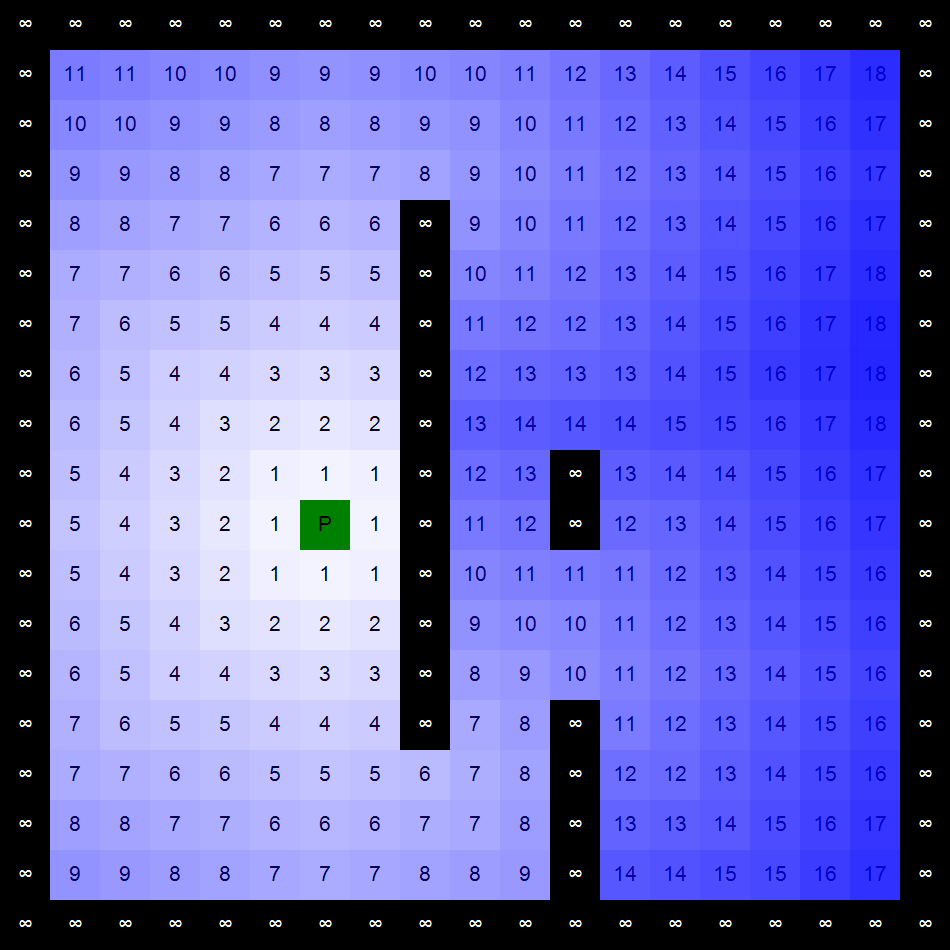
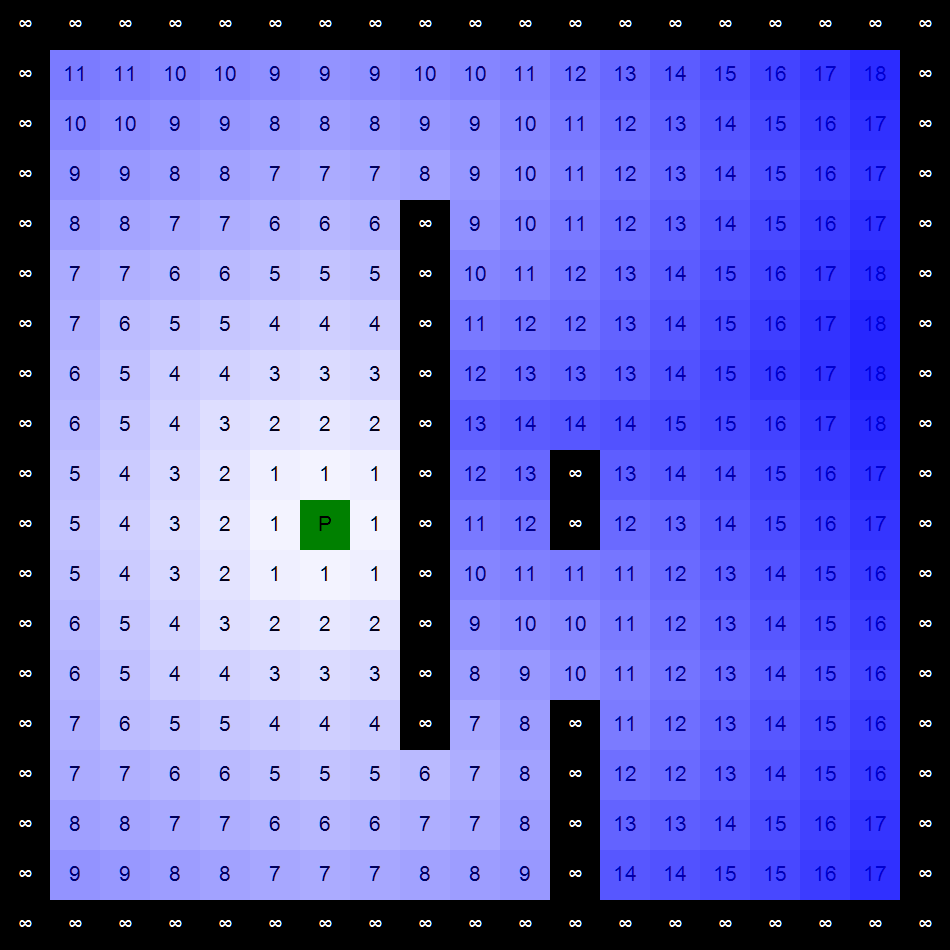
remove minheap

diff --git a/src/NosCore.PathFinder/Brushfire/IMapGridExtension.cs b/src/NosCore.PathFinder/Brushfire/IMapGridExtension.cs
@@ -39,21 +39,21 @@ namespace NosCore.PathFinder.Brushfire
                 return new BrushFire(user, new Dictionary<(short X, short Y), Node?>(), mapGrid.Width, mapGrid.Height);
             }
 
-            var path = new MinHeap();
+            var path = new PriorityQueue<Node, double>();
             var cellGrid = new Dictionary<(short X, short Y), Node?>();
             var grid = new Node?[mapGrid.Width, mapGrid.Height];
             grid[user.X, user.Y] = new Node(user, mapGrid[user.X, user.Y])
             {
                 Closed = true
             };
-            path.Push(grid[user.X, user.Y]!);
+            path.Enqueue(grid[user.X, user.Y]!, 0);
             cellGrid[user] = new Node(user, null);
 
             // while the open list is not empty
             while (path.Count > 0)
             {
                 // pop the position of Cell which has the minimum `f` value.
-                var cell = path.Pop();
+                var cell = path.Dequeue();
                 cellGrid[cell.Position] ??= new Node(cell.Position, mapGrid[cell.Position.X, cell.Position.Y]);
                 grid[cell.Position.X, cell.Position.Y] ??= new Node(cell.Position, mapGrid[cell.Position.X, cell.Position.Y]);
                 grid[cell.Position.X, cell.Position.Y]!.Closed = true;
@@ -78,7 +78,7 @@ namespace NosCore.PathFinder.Brushfire
                         grid[neighbors[i]!.Position.X, neighbors[i]!.Position.Y] = neighbors[i];
                     }
 
-                    path.Push(neighbors[i]!);
+                    path.Enqueue(neighbors[i]!, neighbors[i]!.F);
                     neighbors[i]!.Closed = true;
                 }
             }

diff --git a/src/NosCore.PathFinder/Pathfinder/JumpPointSearchPathfinder.cs b/src/NosCore.PathFinder/Pathfinder/JumpPointSearchPathfinder.cs
@@ -79,12 +79,12 @@ namespace NosCore.PathFinder.Pathfinder
             {
                 var startNode = new JumpNode(start, _mapGrid[start.X, start.Y]) { F = 0, G = 0, Opened = true };
                 nodes[start.X, start.Y] = startNode;
-                var heap = new MinHeap();
-                heap.Push(startNode);
+                var heap = new PriorityQueue<JumpNode, double>();
+                heap.Enqueue(startNode, 0);
 
                 while (heap.Count != 0)
                 {
-                    var node = heap.Pop();
+                    var node = heap.Dequeue();
                     node.Closed = true;
                     if (node.Position == end)
                     {
@@ -109,7 +109,7 @@ namespace NosCore.PathFinder.Pathfinder
             return path.Select(s => s.Position).ToList();
         }
 
-        private void IdentifySuccessors(JumpNode node, JumpNode?[,] nodes, (short X, short Y) end, MinHeap heap)
+        private void IdentifySuccessors(JumpNode node, JumpNode?[,] nodes, (short X, short Y) end, PriorityQueue<JumpNode, double> heap)
         {
             foreach (var neighbour in _mapGrid.GetNeighbors(node.Position))
             {
@@ -143,7 +143,7 @@ namespace NosCore.PathFinder.Pathfinder
 
                 if (!jumpNode.Opened)
                 {
-                    heap.Push(jumpNode);
+                    heap.Enqueue(jumpNode, jumpNode.F);
                     jumpNode.Opened = true;
                 }
             }

diff --git a/src/NosCore.PathFinder/Brushfire/JumpNode.cs b/src/NosCore.PathFinder/Brushfire/JumpNode.cs
@@ -8,12 +8,10 @@ using System;
 
 namespace NosCore.PathFinder.Brushfire
 {
-    public class JumpNode : Node, IComparable<JumpNode>
+    public class JumpNode : Node
     {
-        public JumpNode((short X, short Y) position, double? value)
+        public JumpNode((short X, short Y) position, double? value) : base(position, value)
         {
-            Value = value;
-            Position = position;
         }
 
         public double G { get; set; }
@@ -21,10 +19,5 @@ namespace NosCore.PathFinder.Brushfire
         public double? H { get; set; }
 
         public bool Opened { get; set; }
-
-        public int CompareTo(JumpNode? other)
-        {
-            return F > other?.F ? 1 : F < other?.F ? -1 : 0;
-        }
     }
 }

diff --git a/src/NosCore.PathFinder/Brushfire/Node.cs b/src/NosCore.PathFinder/Brushfire/Node.cs
@@ -8,22 +8,14 @@ using System;
 
 namespace NosCore.PathFinder.Brushfire
 {
-    public class Node : IComparable<Node>
+    public class Node
     {
         public Node((short X, short Y) position, double? value)
         {
             Value = value;
             Position = position;
         }
-
-        public Node()
-        {
-        }
-
-        public int CompareTo(Node? other)
-        {
-            return F > other?.F ? 1 : F < other?.F ? -1 : 0;
-        }
+        
         public bool Closed { get; set; }
 
         public Node? Parent { get; set; }
